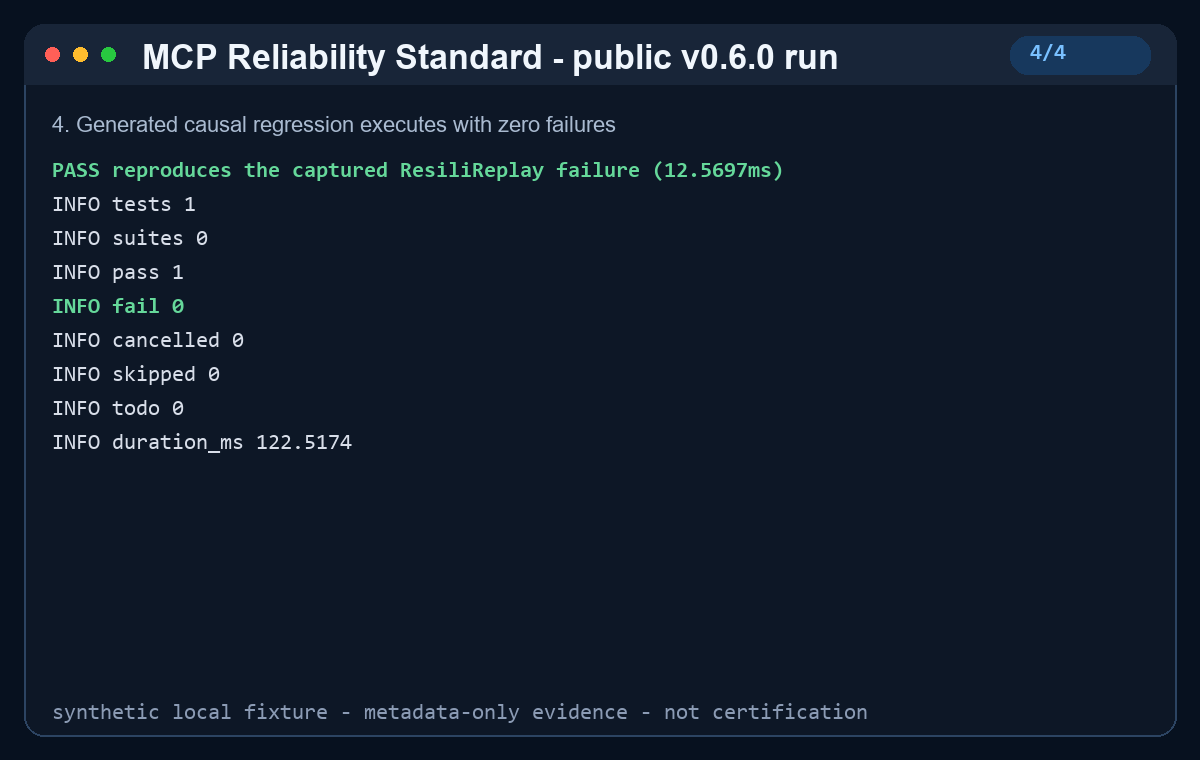
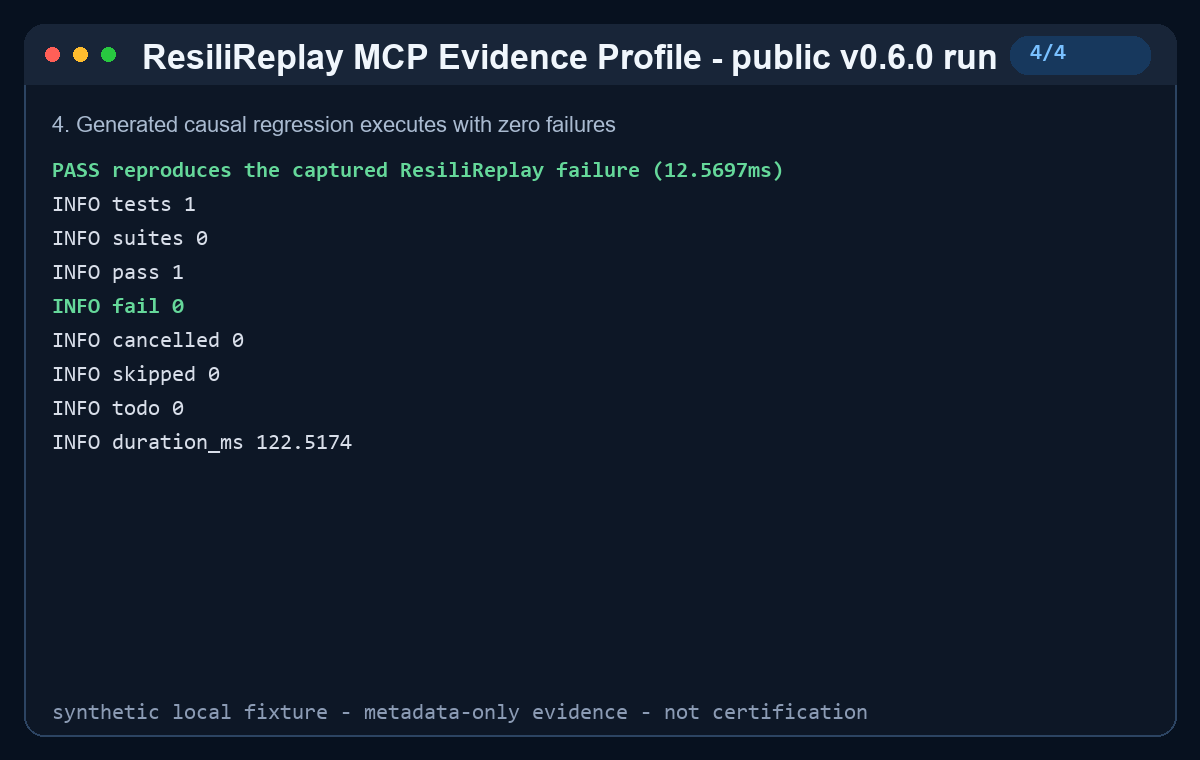
docs: align MCP claims with verified evidence

Changed region(s): [[0.1233, 0.0605, 0.8325, 0.0908]]

diff --git a/scripts/generate-mcp-standard-demo.py b/scripts/generate-mcp-standard-demo.py
@@ -67,7 +67,7 @@ def render(lines: list[str], step: int, caption: str) -> Image.Image:
     draw.rectangle((24, 64, WIDTH - 24, 84), fill="#182538")
     for x, dot in ((52, "#ff5f57"), (80, "#febc2e"), (108, "#28c840")):
         draw.ellipse((x - 7, 54 - 7, x + 7, 54 + 7), fill=dot)
-    draw.text((142, 38), "MCP Reliability Standard - public v0.6.0 run", font=SANS_BOLD, fill="#f0f6fc")
+    draw.text((142, 38), "ResiliReplay MCP Evidence Profile - public v0.6.0 run", font=SANS_BOLD, fill="#f0f6fc")
     draw.rounded_rectangle((1010, 36, 1150, 74), radius=18, fill="#17385d")
     draw.text((1030, 42), f"{step}/4", font=MONO_BOLD, fill="#79c0ff")
     draw.text((52, 112), caption, font=SANS, fill="#a9bad0")
@@ -101,7 +101,7 @@ def main() -> int:
         optimize=True,
         disposal=2,
     )
-    print("Rendered 32-second MCP standard demo from verified transcript.")
+    print("Rendered 32-second MCP evidence profile demo from verified transcript.")
     return 0
 
 

diff --git a/docs/releases/V0_6_CORE_HARDENING.md b/docs/releases/V0_6_CORE_HARDENING.md
@@ -1,0 +1,146 @@
+# v0.6 core-hardening evidence record
+
+Status: implementation and local verification complete on
+`codex/hardening-v0.6-core-invariants`.
+
+This record distinguishes observations made against the untouched starting commit from evidence
+obtained after the hardening changes. It is a release-engineering record, not a security
+certification or an MCP conformance claim.
+
+## Baseline
+
+- Starting commit: `54a96a9dd87ad034e7523be37221c0a30f5532ef` (`origin/main`, observed
+  2026-08-27).
+- Local platform: Windows 10 Pro 10.0.19045 x64, Node 24.19.0, pnpm 11.19.0.
+- Repository-declared package manager: pnpm 10.14.0; that exact pnpm version was not locally
+  available.
+- `pnpm install --frozen-lockfile`: passed in 9,591 ms.
+- `pnpm format:check`: failed on pre-existing formatting drift in `docs/site.js`.
+- `pnpm lint`: passed in 31,572 ms.
+- `pnpm typecheck`: passed in 56,637 ms.
+- `pnpm build`: passed in 16,514 ms.
+- `pnpm test`: 21 files and 143 tests passed in 59,390 ms (Vitest execution 37.48 s).
+- `pnpm quality`: stopped at the same pre-existing `docs/site.js` formatting failure in 6,026 ms.
+- `pnpm agent:gates`: passed in 4,384 ms; 20,000 events in 1,089 ms, 0 owned processes, and 0
+  owned listeners.
+- `pnpm release:gates`: passed in 5,956 ms; 20,000 events in 963 ms, demo in 3,331 ms, and 15
+  packed files.
+
+## Claim-to-evidence matrix
+
+| Public claim                                     | Implementation                                                 | Test/evidence and gate                                                               | Confidence and counterexample                                                                                               | Baseline status       |
+| ------------------------------------------------ | -------------------------------------------------------------- | ------------------------------------------------------------------------------------ | --------------------------------------------------------------------------------------------------------------------------- | --------------------- |
+| Deterministic replay and hashes                  | `core/stable.ts`, `core/events.ts`, `trace/jsonl.ts`           | `events.test.ts`, `trace.test.ts`, `pnpm test`                                       | Object ordering is tested only with ASCII keys; `localeCompare` makes non-ASCII ordering locale-sensitive.                  | `PARTIALLY_SUPPORTED` |
+| Sanitized evidence                               | `core/sanitize.ts`; all event creation sanitizes               | `security.test.ts`, Inspector secret-output test, `secret:scan` in quality           | Recognized plain and explicitly labelled encodings are covered; unlabelled base64 of a recognized token survives.           | `PARTIALLY_SUPPORTED` |
+| Executable regression generation                 | `trace/compiler.ts`                                            | `trace.test.ts`, framework runtime tests, package smoke                              | Generated tests execute, but a linked output directory escapes lexical containment and existing files are overwritten.      | `PARTIALLY_SUPPORTED` |
+| Side-effect-free `adopt --dry-run`               | early return in `cli/adopt.ts` before execution/writes         | instrumented process, HTTP request, and directory assertions in `demo-adopt.test.ts` | Proven for the tested stdio and loopback HTTP paths; no OS-level sandbox is claimed.                                        | `SUPPORTED`           |
+| Local-first and no telemetry                     | no telemetry client; local fixtures and loopback Studio        | `security.test.ts`, site/package/secret gates                                        | Remote MCP is available only after explicit authorization, so “local-only” would be too strong; “local-first” is supported. | `SUPPORTED`           |
+| No credential persistence                        | value-free Inspector plans and pre-event sanitization          | `mcp-inspector.test.ts`, `security.test.ts`, `secret:scan`                           | Pattern redaction is explicitly limited; encoded-token counterexample confirmed.                                            | `PARTIALLY_SUPPORTED` |
+| Cross-platform CLI                               | argument-array spawning and path classification                | CI matrix declares Ubuntu/Windows with Node 22/24                                    | Only Windows/Node 24 was executed locally in this pass; other cells are CI pending.                                         | `PARTIALLY_SUPPORTED` |
+| Inspector interoperability                       | isolated read-only importer in `mcp-chaos/inspector-config.ts` | 13 Inspector integration tests; official Inspector 2.1.0 gate                        | Public plan still labels compatibility as only Inspector 2.0.0 and has no explicit source-profile version.                  | `PARTIALLY_SUPPORTED` |
+| Genuine LangGraph/OpenAI Agents runtime support  | pinned adapter packages and manifests                          | pinned public-runtime suites                                                         | Runtime and fixture labels are separated mechanically in the registry; hosted provider behavior remains unverified.         | `SUPPORTED`           |
+| Public server validation                         | versioned case-study artifacts and hashes                      | `field:verify`                                                                       | Release-scoped evidence only; no universal compatibility or adoption claim is justified.                                    | `SUPPORTED`           |
+| Demo under 60 seconds / adopt under five minutes | bounded demo/adopt workflows                                   | demo release gate and `demo-adopt.test.ts`                                           | Local measurements satisfy the thresholds; they are not universal performance guarantees.                                   | `SUPPORTED`           |
+| Fail-closed configuration                        | strict Inspector and campaign parsers                          | malformed/ambiguous/unknown-field tests                                              | Inspector JSON is read without a byte limit and the duplicate-key scanner has no explicit depth bound.                      | `PARTIALLY_SUPPORTED` |
+| “MCP Reliability Standard”                       | project documentation only                                     | explicit non-endorsement wording                                                     | The unqualified heading can still be mistaken for an official MCP standard while official client-config work is active.     | `PARTIALLY_SUPPORTED` |
+
+## Confirmed pre-fix findings
+
+### RR-HARDEN-001 — linked output escapes the selected root
+
+- Severity: `HIGH`; confidence: high.
+- Invariant: generated and report artifacts remain under the selected output root.
+- Reproduction: create a directory junction named `generated` below a temporary root that targets a
+  second temporary directory, then call `compileRegression(failedTrace, generated)`. Untouched main
+  writes `manifest.json`, `regression.test.mjs`, `replay.fixture.jsonl`, and `scenario.yaml` to the
+  external directory while reporting the lexical linked path as its output.
+- Negative control: the same call with an ordinary directory writes only below that directory.
+- Root cause: `safeOutputPath` performs lexical containment only; writers create/follow directories
+  without verifying real paths at the write boundary.
+- Realistic impact: a repository-controlled link at a documented output location can redirect fixed
+  artifact filenames outside the project and overwrite files accessible to the invoking user.
+
+### RR-HARDEN-002 — encoded recognized credentials survive sanitization
+
+- Severity: `HIGH`; confidence: high.
+- Invariant: recognized credential material must not persist merely because it is encoded.
+- Reproduction: base64-encode `sk-` followed by 24 ASCII characters and place the result in a
+  non-sensitive field. Both `containsLikelySecret` and `sanitize` on untouched main preserve it.
+- Negative control: the same token in plain text, URL-encoded `sk%2D` form, or `base64:`-labelled
+  form is detected/redacted.
+- Root cause: token patterns cover only plain and explicitly labelled base64 forms.
+- Realistic impact: server/tool diagnostics containing a simply encoded recognized token can enter
+  traces and every derived report.
+
+### RR-HARDEN-003 — canonical ordering depends on the ambient locale
+
+- Severity: `MEDIUM`; confidence: high.
+- Invariant: stable identity must not depend on host locale or ICU collation behavior.
+- Reproduction: compare the `localeCompare` ordering used by `stableStringify` with code-unit order
+  for non-ASCII and case-distinct keys; the order differs. Locale-sensitive comparison also permits
+  the host default locale to select a different collation.
+- Negative control: ASCII `a`/`z` ordering happens to match the existing test.
+- Root cause: canonicalization calls `String.prototype.localeCompare` without a fixed locale or
+  options instead of using locale-independent code-unit ordering.
+- Realistic impact: canonically equivalent evidence can acquire a different byte representation and
+  SHA-256 identity across runtimes/locales.
+
+### RR-HARDEN-004 — Inspector configuration parsing is not resource bounded
+
+- Severity: `MEDIUM`; confidence: high.
+- Invariant: malformed or oversized client configuration fails with a stable bounded diagnostic.
+- Reproduction: `listInspectorServers` and `loadInspectorConfig` call `readFile(..., "utf8")`
+  without checking `stat.size`; the recursive duplicate-key scanner has no depth budget.
+- Negative control: ordinary one-server Inspector 2.0/2.1 layouts parse and retain argument
+  boundaries.
+- Root cause: strict field validation was implemented without byte, depth, collection, or string
+  budgets at the external-format boundary.
+- Realistic impact: a malicious or accidentally huge repository configuration can consume
+  disproportionate memory/CPU or terminate with an unstable recursion error before failing closed.
+
+## Selected tranche
+
+The selected tranche hardens evidence-producing boundaries: realpath-aware output containment,
+exclusive/complete regression bundles, encoded recognized-token redaction, locale-independent
+canonical ordering, and bounded/versioned read-only Inspector profile parsing. These changes share
+one invariant: external bytes and paths cannot silently alter, escape, or weaken stable evidence.
+
+Lower-value adapter expansion, dependency upgrades, dashboard work, and unrelated cleanup are
+excluded.
+
+## Post-hardening resolution
+
+| Baseline mismatch                                   | Resolution                                                                                                                                                                                               | Post-hardening evidence                                                                                                                                                                                                                                           | Status                     |
+| --------------------------------------------------- | -------------------------------------------------------------------------------------------------------------------------------------------------------------------------------------------------------- | ----------------------------------------------------------------------------------------------------------------------------------------------------------------------------------------------------------------------------------------------------------------- | -------------------------- |
+| Locale-sensitive canonical keys                     | Replaced ambient collation with code-unit comparison in source and the bundled hook runtime.                                                                                                             | Non-ASCII/case-distinct order; 128 concurrent calls; two separate processes and working directories; changed-input negative control.                                                                                                                              | `SUPPORTED`                |
+| Encoded credentials and unsafe persistence boundary | Added bounded standard/base64url and percent-decoding checks, sensitive-key detection, sanitized CLI errors, and value-free rejection in trace serialization.                                            | Plain, quoted, mixed-case, multiline, split-key, percent, base64, base64url, raw sensitive-key, ordinary-base64 negative control, and hash-valid hostile trace.                                                                                                   | `STRENGTHENED`             |
+| Lexical-only output containment and overwrite       | Added Windows alias checks, real-path ancestor/target checks, pre-launch output validation, contained staging, exclusive hard-link publication, manifest-last completion, conflict refusal, and cleanup. | Traversal, absolute/drive-relative/device names, junction, dangling link, file/directory confusion, parent swap/revalidation, ordinary-directory negative control, 64 concurrent writers, manifest-stage conflict, and executable regression.                     | `STRENGTHENED`             |
+| Unbounded implicit Inspector layout                 | Added read-only profile `mcp-inspector/mcp-json` version `1.0.0`, a reviewed Inspector range, strict UTF-8, byte/depth/collection/string budgets, and stable fail-closed diagnostics.                    | Inspector 2.1.0 discovery; malformed UTF-8, BOM, lone surrogate, 1 MiB overflow, 32-level overflow, 129 servers, 257 args, duplicate keys, unknown/conflicting fields, foreign paths, ambiguous selection, unauthorized remote target, and inert stdio arguments. | `SUPPORTED_WITHIN_PROFILE` |
+| Unqualified “MCP Reliability Standard” terminology  | Kept existing links but changed the public name to “ResiliReplay MCP Reliability Evidence Profile” and made project ownership/non-certification explicit.                                                | README, profile document, demo copy/assets, and link/site checks.                                                                                                                                                                                                 | `DOWNGRADED_TO_EVIDENCE`   |
+| Windows formatting gate drift                       | Added LF checkout rules for JavaScript and Python rather than relying on a locally rewritten working file.                                                                                               | `pnpm format:check` passes on the Windows checkout.                                                                                                                                                                                                               | `FIXED`                    |
+
+## Post-hardening local measurements
+
+Implementation commit tested: `470bbb599c2715ed7063943a7f47caee821d61dc` on Windows 10 x64,
+Node 24.19.0, pnpm 11.19.0.
+
+- `pnpm test`: 21 files and 155 tests passed in 39,994 ms; Vitest execution 25.69 s.
+- `pnpm quality`: passed in 90,021 ms, including Inspector 2.1.0 discovery, three field
+  evidence sets, the 15-file packed-package install/smoke, secret and hygiene scans, and agent
+  lifecycle evidence.
+- Redaction-heavy measurement: 20,000 base64url credential candidates in 94.17 ms, zero retained,
+  with 7,913,472 bytes RSS delta.
+- Concurrent canonicalization measurement: 1,024 calls in 3.48 ms with the expected two distinct
+  outputs for two distinct semantic inputs.
+- Agent lifecycle measurement inside the final quality run: 20,000 events in 704 ms, 13,414,112
+  artifact bytes, 98,668,544 bytes measured RSS delta, and zero owned processes/listeners.
+- Limits exercised: Inspector input 1 MiB, trace input 32 MiB/100,000 events, Studio request body
+  65,536 bytes, proxy body 4 MiB, and OTLP/hook input 1 MiB.
+
+## Verification limitations
+
+- Ubuntu, Node 22, and Windows Node 22 are not locally available and remain `CI PENDING`.
+- No live hosted provider, production credential, non-loopback server, or writable Inspector catalog
+  is used.
+- Node.js path checks reduce link and replacement risk but do not constitute an OS sandbox or an
+  `openat(2)`-style race-free capability system.

diff --git a/docs/architecture/MCP_SOURCE_PROFILE.md b/docs/architecture/MCP_SOURCE_PROFILE.md
@@ -1,0 +1,66 @@
+# ADR: Inspector configuration as a versioned source profile
+
+Status: accepted for the v0.6 core-hardening tranche.
+
+## Problem
+
+ResiliReplay accepts a reviewed Inspector-shaped `mcp.json`, but Inspector's file includes
+Inspector-specific settings and is changing while an official client-configuration proposal is
+still unresolved. Treating the current shape as ResiliReplay's universal schema would create an
+unofficial competing standard and couple campaign semantics to Inspector churn.
+
+## Observed coupling
+
+The repository already confines Inspector fields to `@resilireplay/mcp-chaos` and maps a selected
+entry into a neutral stdio or HTTP connection description before campaign execution. Core traces,
+fault injection, scoring, reports, and regression compilation do not read `mcpServers` or
+Inspector-specific settings. The missing pieces are an explicit source-profile identity/version,
+resource bounds, and current compatibility evidence in the sanitized plan.
+
+## Decision
+
+Retain and harden the existing minimal adapter boundary as a read-only source profile:
+
+- identify the profile and its ResiliReplay profile version explicitly;
+- state the reviewed Inspector release range rather than implying a universal `mcp.json` schema;
+- never rewrite, seed, migrate, or normalize the source file in place;
+- preserve stdio command/argument boundaries and never introduce a shell;
+- map supported transport fields into the neutral imported connection types;
+- reject unknown, ambiguous, conflicting, oversized, and execution-affecting unsupported fields;
+- keep credential values out of the sanitized plan and derived evidence;
+- hash the exact non-secret source bytes for provenance; and
+- allow a future source profile to be added without changing campaign semantics.
+
+## Alternatives
+
+1. Continue implicit Inspector coupling. Rejected because a hard-coded compatibility string does not
+   make the supported source contract falsifiable and encourages accidental schema drift.
+2. Define a universal ResiliReplay client-config schema. Rejected because official SEP-2633 is still
+   a draft and its envelope, secret references, authentication, and versioning remain unresolved.
+3. Remove Inspector import. Rejected because the existing read-only workflow is useful, bounded, and
+   backward compatible when accurately scoped.
+
+## Compatibility, migration, and rollback
+
+Existing supported Inspector 2.0.0 and 2.1.0 stdio, HTTP, and legacy SSE inputs retain their CLI
+behavior. The sanitized dry-run plan gains explicit profile metadata. Unsupported fields continue to
+fail closed. Future official client-config support should be a new profile identifier/version that
+maps to the same neutral connection description; it must not silently reinterpret this profile.
+
+Rollback is deletion of the profile metadata and bounds while retaining the existing importer. No
+source files, public commands, campaign schemas, or trace schemas are migrated by this decision.
+
+## Official research record (observed 2026-08-27)
+
+- Normative: MCP specification release `2026-07-28`, commit
+  `5f5440bb26a62e2cf3440b92da5a667efa03b267`, defines protocol transports but not a universal client
+  configuration file.
+- Released upstream behavior: MCP Inspector `2.1.0`, commit
+  `c7bccd477d38c2c17afb4878bcca8ee5f563c5d2`, documents a top-level `mcpServers` map plus
+  Inspector-specific fields and distinguishes writable `--catalog` from read-only `--config`.
+- Proposed: modelcontextprotocol/modelcontextprotocol draft PR #2633 at head
+  `6f108877fd8a858cd7e066a37009d33536b9ca2f` proposes a standard client-side `mcp.json`; it is not
+  normative or merged.
+- Unresolved: modelcontextprotocol/inspector issue #1912 remains open. A project member's
+  2026-08-27 comment warns that documenting the present Inspector layout for external integration may
+  be premature and subject to near-term standards change.

diff --git a/docs/MCP_INSPECTOR_COMPATIBILITY.md b/docs/MCP_INSPECTOR_COMPATIBILITY.md
@@ -1,10 +1,17 @@
 # MCP Inspector `mcp.json` compatibility matrix
 
-Reviewed upstream: MCP Inspector `2.0.0`, commit
-`7aebf168e6277ea26b1f04a7987a1cd11328ec83`. The Inspector source of truth was its released
-[`mcp-server-configuration.md`](https://github.com/modelcontextprotocol/inspector/blob/2.0.0/docs/mcp-server-configuration.md)
+Source profile: `mcp-inspector/mcp-json` version `1.0.0`, read-only import, compatible with MCP
+Inspector `>=2.0.0 <2.2.0`.
+
+Reviewed upstream: MCP Inspector `2.1.0`, commit
+`c7bccd477d38c2c17afb4878bcca8ee5f563c5d2`. The Inspector source of truth was its released
+[`mcp-server-configuration.md`](https://github.com/modelcontextprotocol/inspector/blob/2.1.0/docs/mcp-server-configuration.md)
 and released config/runtime types. Protocol transport behavior was reviewed against MCP revision
 [`2026-07-28`](https://modelcontextprotocol.io/specification/2026-07-28/basic/transports).
+
+Import is bounded to 1 MiB of UTF-8 JSON, 32 container levels, 128 server entries, 256 arguments per
+server, 128 environment or header entries, and 16 KiB per imported string. Duplicate keys, a UTF-8
+BOM, malformed UTF-8, and unsupported or foreign absolute paths fail closed.
 
 | Inspector field/form                                                                | ResiliReplay interpretation                      | Status                           | Security rule                                                                        | Validation error                                               |
 | ----------------------------------------------------------------------------------- | ------------------------------------------------ | -------------------------------- | ------------------------------------------------------------------------------------ | -------------------------------------------------------------- |

diff --git a/docs/MCP_INSPECTOR.md b/docs/MCP_INSPECTOR.md
@@ -6,8 +6,9 @@ definition to introduce controlled failures, score recovery, preserve replay evi
 an executable regression. The projects are complementary. Compatibility does not imply an official
 partnership, endorsement, or certification.
 
-This integration was audited against MCP Inspector `2.0.0` at commit
-`7aebf168e6277ea26b1f04a7987a1cd11328ec83` and MCP protocol revision `2026-07-28`.
+This integration implements the versioned, read-only `mcp-inspector/mcp-json` source profile `1.0.0`
+for MCP Inspector `>=2.0.0 <2.2.0`. It was revalidated against MCP Inspector `2.1.0` at commit
+`c7bccd477d38c2c17afb4878bcca8ee5f563c5d2` and MCP protocol revision `2026-07-28`.
 
 ## Quick start
 
@@ -52,6 +53,8 @@ pnpm exec resilireplay mcp audit \
 
 The importer never writes or migrates the Inspector file. Exactly one entry is auto-selected; two
 or more entries require `--server`, matching the Inspector CLI's unambiguous selection behavior.
+Input is bounded to 1 MiB of strict UTF-8 JSON, 32 container levels, 128 servers, 256 arguments per
+server, 128 environment or header entries, and 16 KiB per imported string.
 
 ## Stdio
 
@@ -100,7 +103,7 @@ or header value is a string. It reads exactly one process environment variable. 
 command substitutions, backticks, pipes, semicolons, and other shell expressions are never
 expanded. Inspector's ordinary string values remain literals.
 
-Legacy `type: "sse"` entries are accepted for backwards compatibility because Inspector 2.0.0 still
+Legacy `type: "sse"` entries are accepted for backwards compatibility because Inspector 2.1.0 still
 supports them, although Streamable HTTP is the current standard transport.
 
 ## Secrets and execution plans

diff --git a/docs/mcp-reliability/DEMO.md b/docs/mcp-reliability/DEMO.md
@@ -5,7 +5,7 @@ This 32-second silent demo is rendered from a real local run of the public npm
 tool error, one expected failure, the integrity-bound campaign result, and the generated regression
 executing with one pass and zero failures.
 
-![Terminal demo of the MCP Reliability Standard: clean control, bounded recovery, expected failure, and passing generated regression](../assets/mcp-reliability-standard-demo.gif)
+![Terminal demo of the ResiliReplay MCP reliability evidence profile: clean control, bounded recovery, expected failure, and passing generated regression](../assets/mcp-reliability-standard-demo.gif)
 
 [Static PNG](../assets/mcp-reliability-standard-demo.png) ·
 [verified transcript](../assets/mcp-reliability-standard-demo-transcript.txt) ·
@@ -31,8 +31,8 @@ formats existing terminal output; it does not invent server behavior or test res
 ## Artifact hashes
 
 ```text
-f7fd36130bd32d9b9c37f7c1fea9bfa616ed8720d224a0c4a2183801e859fefd  docs/assets/mcp-reliability-standard-demo.gif
-f19cfd5eee587c904b26702d4f902743d9cac405d27b120fa15e1fd2d2af4d17  docs/assets/mcp-reliability-standard-demo.png
+de5caeaf6ef6540a0b598b9876ec8a85d707074ad8b29e58446ae9b3142709fd  docs/assets/mcp-reliability-standard-demo.gif
+4100ddf2f5c8e4da37139e80d6dd3bbba6e26acf3a06f4fb6f7a82645942e0ff  docs/assets/mcp-reliability-standard-demo.png
 8b498d10320ebec648157f0bc9f53d16d00accc21cf2f103afbae853c6f35cb3  docs/assets/mcp-reliability-standard-demo-transcript.txt
-1e478c2321c8f31023ad9fd152002954459ecce77f69e568d173b7f69bbfc4ac  scripts/generate-mcp-standard-demo.py
+3a2ad8521a72e7e9ca251fc2bfcd5ab7e6d82e64c2151b28366fdd5ea5be2fb7  scripts/generate-mcp-standard-demo.py
 ```

diff --git a/docs/mcp-reliability/MCP_RELIABILITY_STANDARD.md b/docs/mcp-reliability/MCP_RELIABILITY_STANDARD.md
@@ -1,11 +1,12 @@
-# The MCP Reliability Standard
+# ResiliReplay MCP Reliability Evidence Profile
 
-Status: public working standard, revision 0.1 (2026-08-08).
+Status: project-defined working profile, revision 0.1 (2026-08-08).
 
-The MCP Reliability Standard defines the minimum evidence needed to make a bounded, reproducible
-claim about how an MCP server behaves under failure. It is an open testing convention maintained in
-the ResiliReplay repository. It is not part of the Model Context Protocol specification, a security
-standard, a certification program, or an endorsement of any server.
+This profile defines the minimum evidence ResiliReplay requires for a bounded, reproducible claim
+about how an MCP server behaves under failure. It is an open testing convention maintained in the
+ResiliReplay repository. It is not part of the Model Context Protocol specification, an official or
+community-wide standard, a security standard, a certification program, or an endorsement of any
+server.
 
 ## Minimum claim
 
@@ -91,7 +92,7 @@ machine-readable `campaign-run.json` remains the source of truth.
 
 Substantive changes begin in a public GitHub Discussion and identify the new minimum evidence,
 compatibility impact, migration path, and negative control. Changes land through reviewed pull
-requests. Existing results keep the revision they declared; the standard does not retroactively
+requests. Existing results keep the revision they declared; the profile does not retroactively
 upgrade evidence.
 
 Questions for the first RFC:

diff --git a/README.md b/README.md
@@ -21,15 +21,15 @@ npx --yes resilireplay@0.6.0 mcp serve
 
 [Static PNG](docs/assets/everywhere-demo.png) · [genuine transcript](docs/assets/everywhere-demo-transcript.txt) · [self-contained regression](examples/everywhere/everywhere.test.mjs) · [product site](https://aliengineering-byte.github.io/resilireplay/)
 
-## The MCP Reliability Standard
+## ResiliReplay MCP Reliability Evidence Profile
 
-The public working standard defines the minimum evidence for a bounded MCP reliability claim: pinned
+This project-defined profile describes the minimum evidence for a bounded MCP reliability claim: pinned
 identity and authority, a clean control, deterministic fault, expected-failure negative control,
 bounded recovery, integrity hashes, executable regression when causal failure exists, and verified
-cleanup. It is an open testing convention—not the MCP specification, certification, security testing,
-or an endorsement.
+cleanup. It is an open testing convention maintained by ResiliReplay—not an official MCP standard,
+certification, security testing, or an endorsement.
 
-[Read the standard](docs/mcp-reliability/MCP_RELIABILITY_STANDARD.md) ·
+[Read the evidence profile](docs/mcp-reliability/MCP_RELIABILITY_STANDARD.md) ·
 [run the five-minute MCP test](docs/mcp-reliability/FIVE_MINUTE_MCP_TEST.md) ·
 [compare seven executed profiles](docs/mcp-reliability/COMPATIBILITY_AND_RECOVERY_MATRIX.md) ·
 [contribute a case](docs/mcp-reliability/CONTRIBUTING_CASES.md)

diff --git a/docs/LIMITATIONS.md b/docs/LIMITATIONS.md
@@ -19,6 +19,10 @@ ResiliReplay v0.6.0 has these explicit boundaries:
 
 - **Execution isolation:** reviewed commands execute directly without a shell, but ResiliReplay is not
   an OS sandbox.
+- **Filesystem race boundary:** output roots, ancestors, and targets are checked with lexical and
+  real-path containment before writes. Node.js does not expose a portable directory-file-descriptor
+  write API, so an attacker who can replace checked directories concurrently retains a residual
+  time-of-check/time-of-use race. Run in a repository not writable by an untrusted local principal.
 - **MCP side effects:** discovery is read-only; an explicitly allowlisted and confirmed tool can still
   change server state.
 - **Studio exposure:** Studio is loopback-only and assumes the local browser/user account is trusted.

diff --git a/docs/mcp-reliability/EVIDENCE_PROFILES.md b/docs/mcp-reliability/EVIDENCE_PROFILES.md
@@ -1,7 +1,8 @@
 # MCP reliability evidence profiles
 
 Profiles describe where evidence came from. Levels in the
-[MCP Reliability Standard](MCP_RELIABILITY_STANDARD.md) describe how far a result progressed. Always
+[ResiliReplay MCP Reliability Evidence Profile](MCP_RELIABILITY_STANDARD.md) describe how far a
+result progressed. Always
 publish both; for example, `PUBLIC_LOCAL_SERVER / M4 REGRESSION_VERIFIED / stdio`.
 
 ## Profiles
